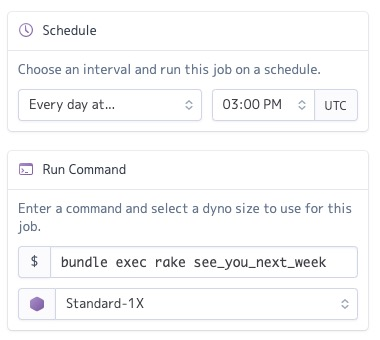
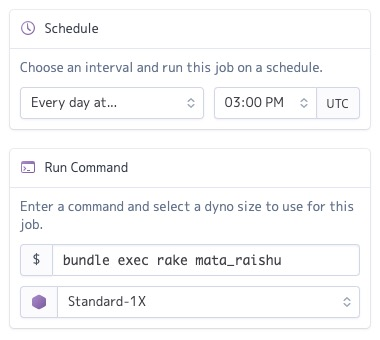
:tada: Rename see_you_next_week -> mata_raishu

diff --git a/README.md b/README.md
@@ -1,4 +1,6 @@
-## see-you-next-week
+## mata-raishu
+
+また来週
 
 ### References
 
@@ -14,4 +16,4 @@ $ heroku addons:create scheduler:standard
 $ heroku addons:open scheduler
 ```
 
-![heroku_scheduler_setting.jpg](https://raw.githubusercontent.com/hico-horiuchi/see-you-next-week/master/heroku_scheduler_setting.jpg)
+![heroku_scheduler_setting.jpg](https://raw.githubusercontent.com/hico-horiuchi/mata-raishu/master/heroku_scheduler_setting.jpg)
